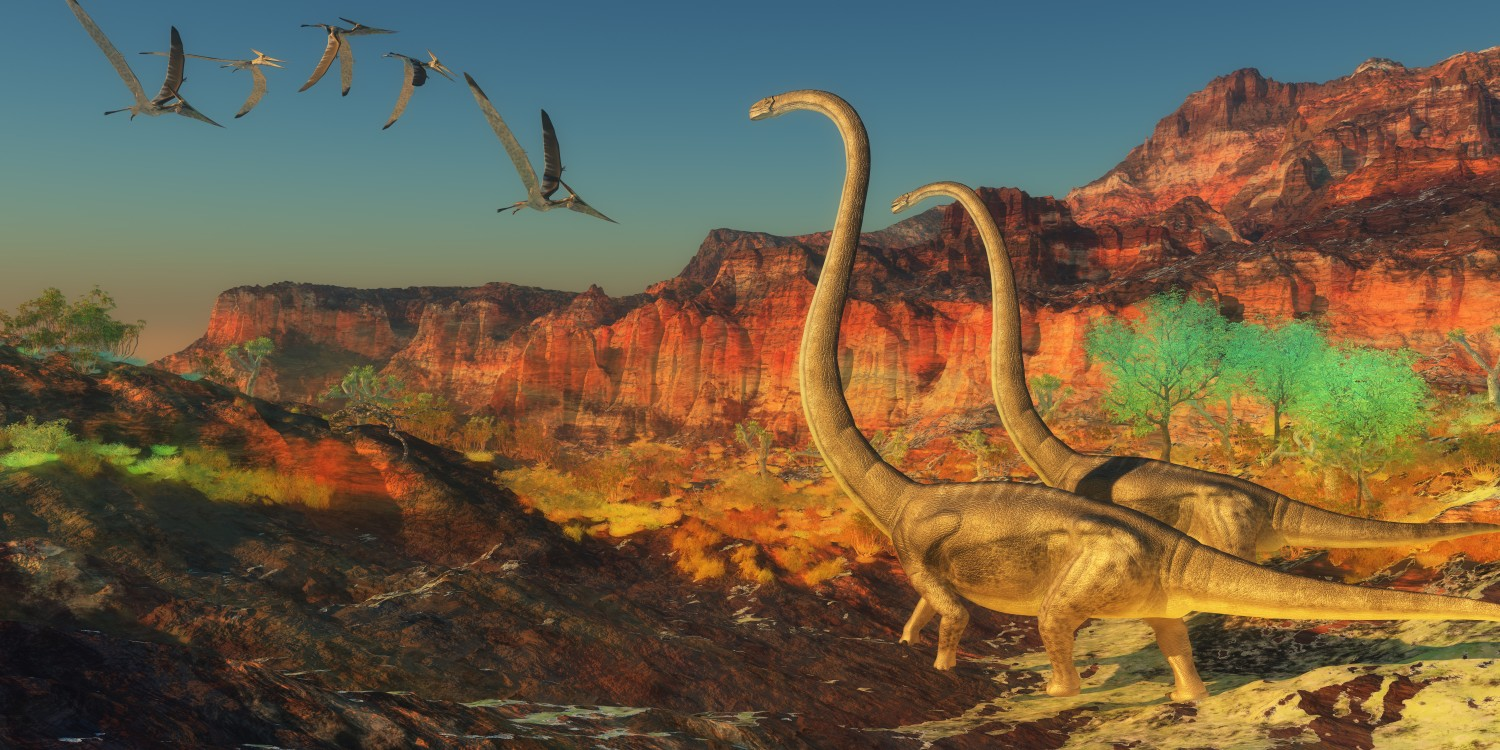
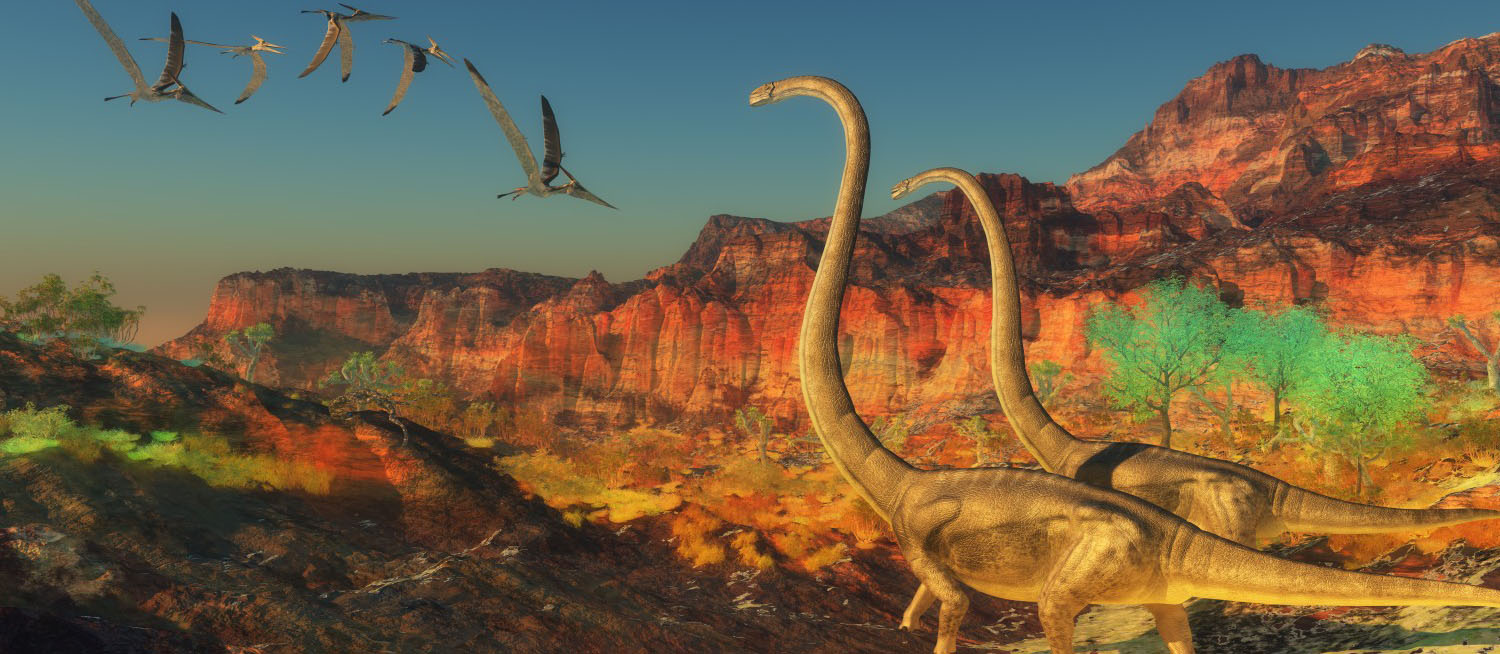
Add files via upload

diff --git a/CLONEFLIX/style/main.css b/CLONEFLIX/style/main.css
@@ -10,7 +10,8 @@
 }
 body{
     background-color: var(--preto);
-    font-family: 'Times New Roman', Times, serif;
+    font-family: 'Arial', Times, serif;
+    color: white;
 
     
 }/* ELEMENTOS BASE */
@@ -46,7 +47,7 @@ header nav a{
 /* AreA DE DINOS */
 .principal{
     font-size: 20px;
-    background: url('/FRONT-END/Clonepages/CLONEFLIX/img/dinos2.png');
+    background: url('/FRONT-END/Clonepages/CLONEFLIX/img/dinos.jpg');
     background: linear-gradient(rgba(0,0,0,.60),(rgba(0,0,0,.60),100%));
     height: 400px;
     background-size:cover;
@@ -98,4 +99,7 @@ a manipulação de vários elementos
     width: 100%;
     display: block;
 
+}
+.carousel {
+    margin-top: 5px;
 }

diff --git a/CLONEFLIX/index.html b/CLONEFLIX/index.html
@@ -6,6 +6,8 @@
     <meta name="viewport" content="width=device-width, initial-scale=1.0">
     <link rel="stylesheet" href="./style/main.css">
  
+    <!-- Responsividade-->>
+     <link rel="stylesheet" href="./style/responsive.css">
     <!--- Arquivos OWL--->
     <link rel="stylesheet" href="./style/owl/owl.carousel.min.css">
     <link rel="stylesheet" href="./style/owl/owl.theme.default.min.css">

diff --git a/CLONEFLIX/style/responsive.css b/CLONEFLIX/style/responsive.css
@@ -1,0 +1,18 @@
+@media screen and (max-width:700px){
+    header .container{
+        display:flex;
+        flex-direction: column;
+    }
+    .botao{
+        margin-top: 5px;
+        width: 190px;
+        height: 60px;
+    }    
+}
+
+@media screen and (min-width:1000px) {
+    .descricao{
+        width: 50%;
+    }
+    
+}

diff --git a/CLONEFLIX/js/main.js b/CLONEFLIX/js/main.js
@@ -1,5 +1,5 @@
 const slides = document.querySelectorAll('[data-js="carosel_item"]');
-const nextButton = document.querySelectorAll('[data-js="carosel_button--next"]');
+const nextButton = document.querySelector('[data-js="carosel_button--next"]');
 
 let currentSlideIndex = 0;
 
